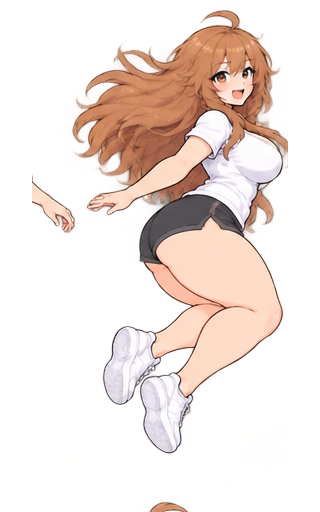
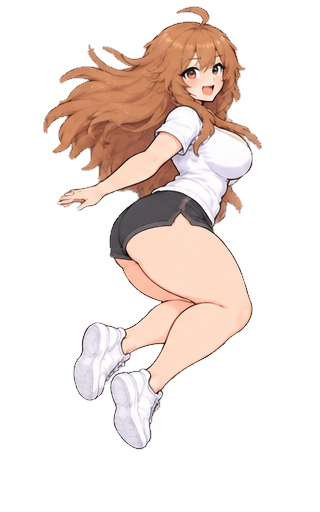
5.6.4 – Alya-Tanzbilder bereinigt & 60-FPS-Animation

Changed region(s): [[0.0938, 0.0, 0.9062, 0.9062], [0.4688, 0.9688, 0.5938, 1.0]]

diff --git a/src/renderer/src/components/AlyaDance.jsx b/src/renderer/src/components/AlyaDance.jsx
@@ -7,29 +7,101 @@ const back = front.map(s => s.replace('vorne','hinten'));
 const jumpOut = ['01_ausholen','02_absprung','03_drehung_1','04_drehung_2','05_drehung_3','06_landung'].map(s => 'sprung_vorne_nach_hinten_' + s);
 const jumpIn = ['01_ausholen','02_absprung','03_drehung_1','04_drehung_2','05_drehung_3','06_landung'].map(s => 'sprung_hinten_nach_vorne_' + s);
 const frames = [...front, ...jumpOut, ...back, ...jumpIn];
-const durations = [...front.map(() => 260), ...[160,130,140,140,160,220], ...back.map(() => 260), ...[160,130,140,140,160,220]];
+const durations = [...[150,125,160,125,150,125,160,125], ...[115,92,90,90,100,130], ...[150,125,160,125,150,125,160,125], ...[115,92,90,90,100,130]];
 const total = durations.reduce((a,b) => a+b, 0);
 const urls = [...new Set(frames)].map(s => ROOT + s + '.png');
 
-// Decode once per renderer. A failed load stays on the normal animated pet.
+// Decode once per renderer and precompute per-strip spine profiles for 60 FPS sub-frame warping.
+const STRIPS = 48;
+const SRC_W = 320;
+const SRC_H = 512;
+const playSeq = [...front, ...front, ...jumpOut, ...back, ...back, ...jumpIn];
+const playDur = [
+  ...[150,125,160,125,150,125,160,125], ...[150,125,160,125,150,125,160,125],
+  ...[115,92,90,90,100,130],
+  ...[150,125,160,125,150,125,160,125], ...[150,125,160,125,150,125,160,125],
+  ...[115,92,90,90,100,130],
+];
+const playTotal = playDur.reduce((a, b) => a + b, 0);
+
 let loaded;
-let kept = [];
+const frameMap = new Map();
+
+function analyzeFrame(im) {
+  const c = document.createElement('canvas');
+  c.width = SRC_W; c.height = SRC_H;
+  const ctx = c.getContext('2d', { willReadFrequently: true });
+  ctx.drawImage(im, 0, 0, SRC_W, SRC_H);
+  const data = ctx.getImageData(0, 0, SRC_W, SRC_H).data;
+  const rawCx = new Float32Array(STRIPS);
+  const sh = SRC_H / STRIPS;
+  for (let s = 0; s < STRIPS; s++) {
+    const y0 = Math.floor(s * sh), y1 = Math.min(SRC_H, Math.ceil((s + 1) * sh));
+    let minX = SRC_W, maxX = -1;
+    for (let y = y0; y < y1; y++) {
+      const row = y * SRC_W * 4;
+      for (let x = 0; x < SRC_W; x++) {
+        if (data[row + x * 4 + 3] > 80) {
+          if (x < minX) minX = x;
+          if (x > maxX) maxX = x;
+        }
+      }
+    }
+    rawCx[s] = maxX >= minX ? 0.5 * (minX + maxX) : (s > 0 ? rawCx[s - 1] : SRC_W * 0.5);
+  }
+  const cx = new Float32Array(STRIPS);
+  for (let s = 0; s < STRIPS; s++) {
+    let sum = 0, wsum = 0;
+    for (let k = -3; k <= 3; k++) {
+      const idx = Math.max(0, Math.min(STRIPS - 1, s + k));
+      const w = 4 - Math.abs(k);
+      sum += rawCx[idx] * w; wsum += w;
+    }
+    cx[s] = sum / wsum;
+  }
+  return { im, cx };
+}
+
 function preload() {
   return loaded ||= Promise.all(urls.map(src => new Promise(resolve => {
     const im = new Image();
-    im.onload = () => resolve(im);
+    im.onload = () => resolve({ src, im });
     im.onerror = () => resolve(null);
     im.src = src;
-  }))).then(images => {
-    const ok = images.every(im => im?.naturalWidth > 0);
-    if (ok) kept = images; else loaded = null;
+  }))).then(items => {
+    const ok = items.every(it => it?.im?.naturalWidth > 0);
+    if (ok) {
+      for (const { src, im } of items) {
+        const key = src.slice(ROOT.length, -4);
+        frameMap.set(key, analyzeFrame(im));
+      }
+    } else {
+      loaded = null;
+    }
     return ok;
   });
 }
 
+function drawWarped(ctx, entry, targetEntry, shiftFactor, w, h, alpha = 1, dyPx = 0) {
+  if (!entry || alpha <= 0.01) return;
+  ctx.save();
+  ctx.globalAlpha = alpha;
+  const shSrc = SRC_H / STRIPS;
+  const shDst = h / STRIPS;
+  const scaleX = w / SRC_W;
+  for (let s = 0; s < STRIPS; s++) {
+    const sy = s * shSrc;
+    const dy = s * shDst + dyPx;
+    const rawDelta = targetEntry ? (targetEntry.cx[s] - entry.cx[s]) * shiftFactor : 0;
+    const dx = Math.max(-14, Math.min(14, rawDelta)) * scaleX;
+    ctx.drawImage(entry.im, 0, sy, SRC_W, shSrc + 0.6, dx, dy, w, shDst + 0.45);
+  }
+  ctx.restore();
+}
+
 export function AlyaDance({ size, fallback, onPointerDown, onContextMenu, onMouseEnter, onMouseLeave }) {
-  const image = useRef(null);
-  const [ready, setReady] = useState(() => kept.length === urls.length);
+  const canvasRef = useRef(null);
+  const [ready, setReady] = useState(() => frameMap.size === urls.length);
   useEffect(() => {
     if (ready) return undefined;
     let alive = true;
@@ -38,25 +110,68 @@ export function AlyaDance({ size, fallback, onPointerDown, onContextMenu, onMous
   }, [ready]);
   useEffect(() => {
     if (!ready) return undefined;
-    let timer;
-    // Auch wenn Windows Animationseffekte (prefers-reduced-motion) deaktiviert hat, soll die Spotify-Tanzreaktion animiert laufen.
+    let raf;
     const start = performance.now();
-    const tick = () => {
-      clearTimeout(timer);
-      if (!image.current) return;
-      const t = (performance.now() - start) % total;
+    const render = (now) => {
+      const cv = canvasRef.current;
+      if (!cv) return;
+      const dpr = Math.min(2, window.devicePixelRatio || 1);
+      const w = size;
+      const h = Math.round(size * 1.6);
+      const pw = Math.round(w * dpr), ph = Math.round(h * dpr);
+      if (cv.width !== pw || cv.height !== ph) { cv.width = pw; cv.height = ph; }
+      const ctx = cv.getContext('2d');
+      ctx.setTransform(dpr, 0, 0, dpr, 0, 0);
+      ctx.clearRect(0, 0, w, h);
+
+      const t = (now - start) % playTotal;
       let elapsed = 0, idx = 0;
-      while (idx < durations.length - 1 && elapsed + durations[idx] <= t) elapsed += durations[idx++];
-      const next = ROOT + frames[idx] + '.png';
-      if (image.current.getAttribute('src') !== next) image.current.src = next;
-      timer = setTimeout(tick, Math.max(16, elapsed + durations[idx] - t));
+      while (idx < playDur.length - 1 && elapsed + playDur[idx] <= t) elapsed += playDur[idx++];
+      const dur = playDur[idx];
+      const p = Math.max(0, Math.min(1, (t - elapsed) / dur));
+      // Smoothstep easing within each keyframe interval
+      const ease = p * p * (3 - 2 * p);
+
+      const curName = playSeq[idx];
+      const nextName = playSeq[(idx + 1) % playSeq.length];
+      const cur = frameMap.get(curName);
+      const next = frameMap.get(nextName);
+      const isJump = curName.startsWith('sprung_') || nextName.startsWith('sprung_');
+
+      // Subtle rhythmic knee-bounce on the hip-sway beat
+      const bounceY = isJump ? 0 : Math.sin(ease * Math.PI) * (size * 0.008);
+
+      if (!isJump && cur && next) {
+        // Spine-warped 60 FPS interpolation with aligned-silhouette midpoint crossfade
+        if (ease < 0.38) {
+          drawWarped(ctx, cur, next, ease * 0.85, w, h, 1, bounceY);
+        } else if (ease > 0.62) {
+          drawWarped(ctx, next, cur, (1 - ease) * 0.85, w, h, 1, bounceY);
+        } else {
+          const blend = (ease - 0.38) / 0.24;
+          drawWarped(ctx, cur, next, 0.45, w, h, 1 - blend, bounceY);
+          drawWarped(ctx, next, cur, 0.45, w, h, blend, bounceY);
+        }
+      } else if (cur && next) {
+        // Spin jump: crisp fast frames with brief aligned cross-dissolve at frame boundary
+        if (ease < 0.72) {
+          drawWarped(ctx, cur, next, ease * 0.35, w, h, 1, 0);
+        } else {
+          const blend = (ease - 0.72) / 0.28;
+          drawWarped(ctx, cur, next, 0.35, w, h, 1 - blend, 0);
+          drawWarped(ctx, next, cur, 0.25, w, h, blend, 0);
+        }
+      } else if (cur) {
+        drawWarped(ctx, cur, null, 0, w, h, 1, 0);
+      }
+      raf = requestAnimationFrame(render);
     };
-    tick();
-    return () => clearTimeout(timer);
-  }, [ready]);
+    raf = requestAnimationFrame(render);
+    return () => cancelAnimationFrame(raf);
+  }, [ready, size]);
   if (!ready) return fallback;
   return <div class="pet-fig pet-img s-dance has-pose" style={{ width: size + 'px', height: Math.round(size * 1.6) + 'px' }}
     onPointerDown={onPointerDown} onContextMenu={onContextMenu} onMouseEnter={onMouseEnter} onMouseLeave={onMouseLeave}>
-    <div class="body"><img ref={image} src={ROOT + frames[0] + '.png'} width={size} height={Math.round(size * 1.6)} draggable={false} alt="Alya tanzt" onError={() => setReady(false)} /></div>
+    <div class="body"><canvas ref={canvasRef} style={{ width: size + 'px', height: Math.round(size * 1.6) + 'px', display: 'block', pointerEvents: 'none' }} /></div>
   </div>;
 }
